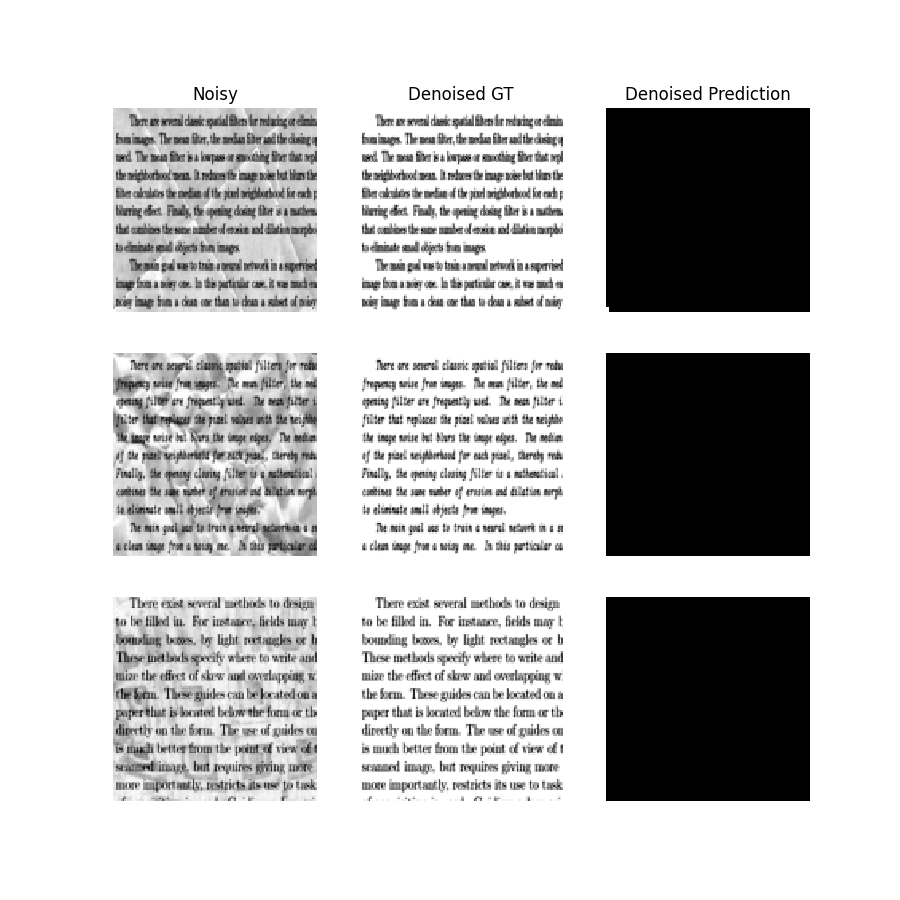
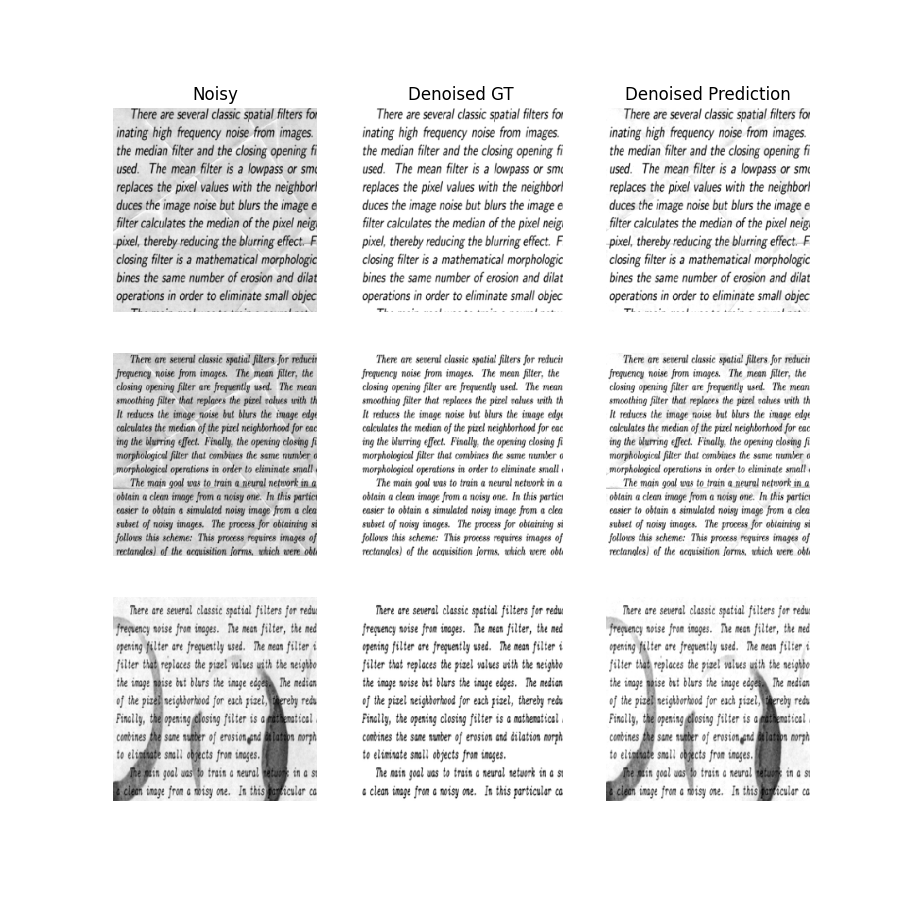
fixed black pixels with clamping

diff --git a/data.py b/data.py
@@ -19,7 +19,8 @@ class OCRDataset(Dataset):
         # initialize base attributes
         self.noisy_path = noisy_path
         self.denoised_path = denoised_path
-        self.image_size = 128
+        # self.image_size = 128
+        self.image_size = 420
 
         # get each item. sort them so the pairs are always aligned
         raw_noisy_images = sorted([os.path.join(self.noisy_path, file) for file in os.listdir(self.noisy_path)])
@@ -29,9 +30,9 @@ class OCRDataset(Dataset):
         if len(raw_noisy_images) != len(raw_denoised_images):
             raise valueError("Unequal number of noisy and denoised images")
 
-        # set the standard transformation them to be 128 x 128 tensor
+        # set the standard transformation to be 128 x 128 tensor
         self.transform = transforms.Compose([
-            transforms.Resize((128, 128)),
+            transforms.Resize((256, 256)),
             transforms.ToTensor()
         ])
 

diff --git a/test.py b/test.py
@@ -24,8 +24,9 @@ def test_epoch(device, model, dataloader, criterion):
             pred = model(noisy)
 
             # calculate and accumulate the loss (https://arxiv.org/pdf/1608.03981)
-            # gt_noise = noisy - denoised
-            loss = criterion(denoised, pred)
+            gt_noise = noisy - denoised
+            loss = criterion(gt_noise, pred)
+            # loss = criterion(denoised, pred) # if we are directly predicting the denoised image
             total_loss += loss 
 
     # normalize the loss with the number of batches

diff --git a/main.py b/main.py
@@ -55,8 +55,7 @@ def visualize_prediction(device, model, test_dataset, reconstruct_fn, samples=3,
         # run prediction
         model.eval()
         noise_prediction = model(noisy.unsqueeze(0).to(device)).squeeze(0).cpu().detach()
-        # denoised_prediction = noisy - noise_prediction
-        denoised_prediction = noise_prediction
+        denoised_prediction = torch.clamp(noisy - noise_prediction, min=0.0, max=1.0)
 
         # reconstruct each image
         noisy_PIL = reconstruct_fn(noisy)

diff --git a/train.py b/train.py
@@ -25,8 +25,9 @@ def train_epoch(device, model, dataloader, optimizer, criterion):
         pred = model(noisy)
 
         # calculate and accumulate the loss (https://arxiv.org/pdf/1608.03981)
-        # gt_noise = noisy - denoised
-        loss = criterion(denoised, pred)
+        gt_noise = noisy - denoised
+        loss = criterion(gt_noise, pred)
+        # loss = criterion(denoised, pred)
         total_loss += loss 
 
         # compute all the gradients for back propagation
